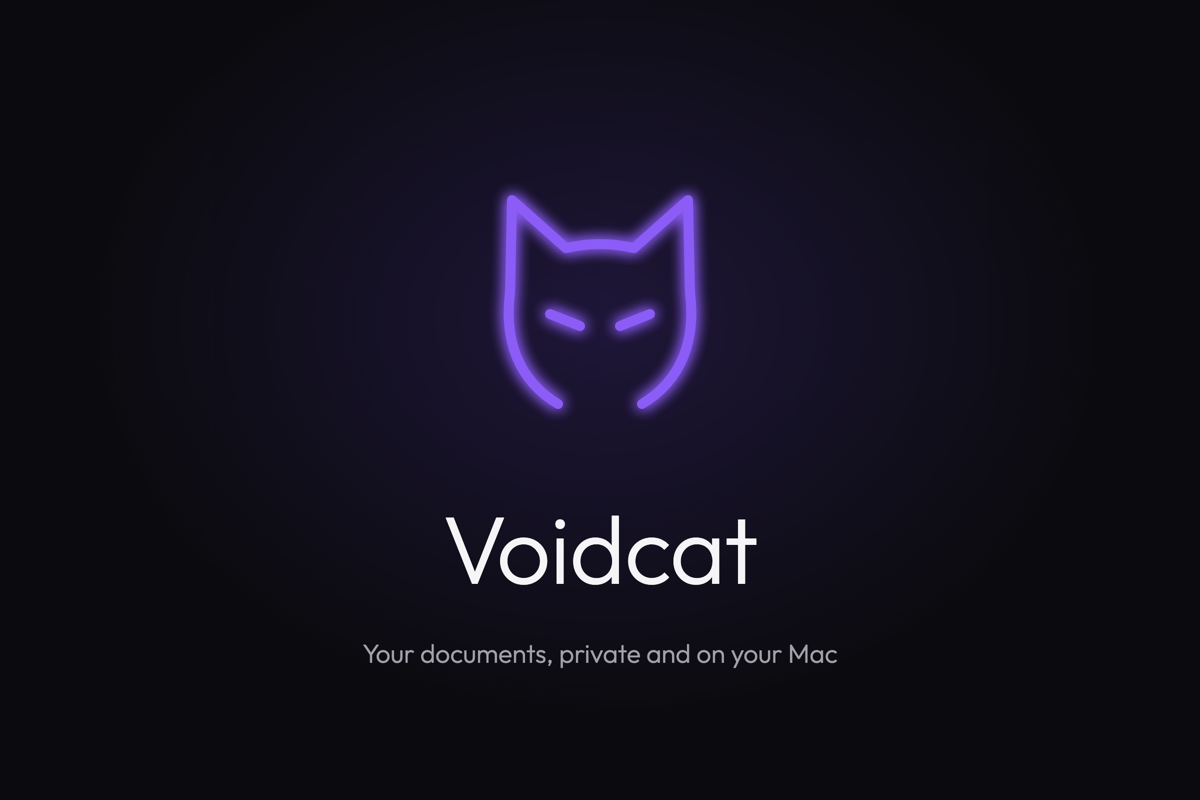
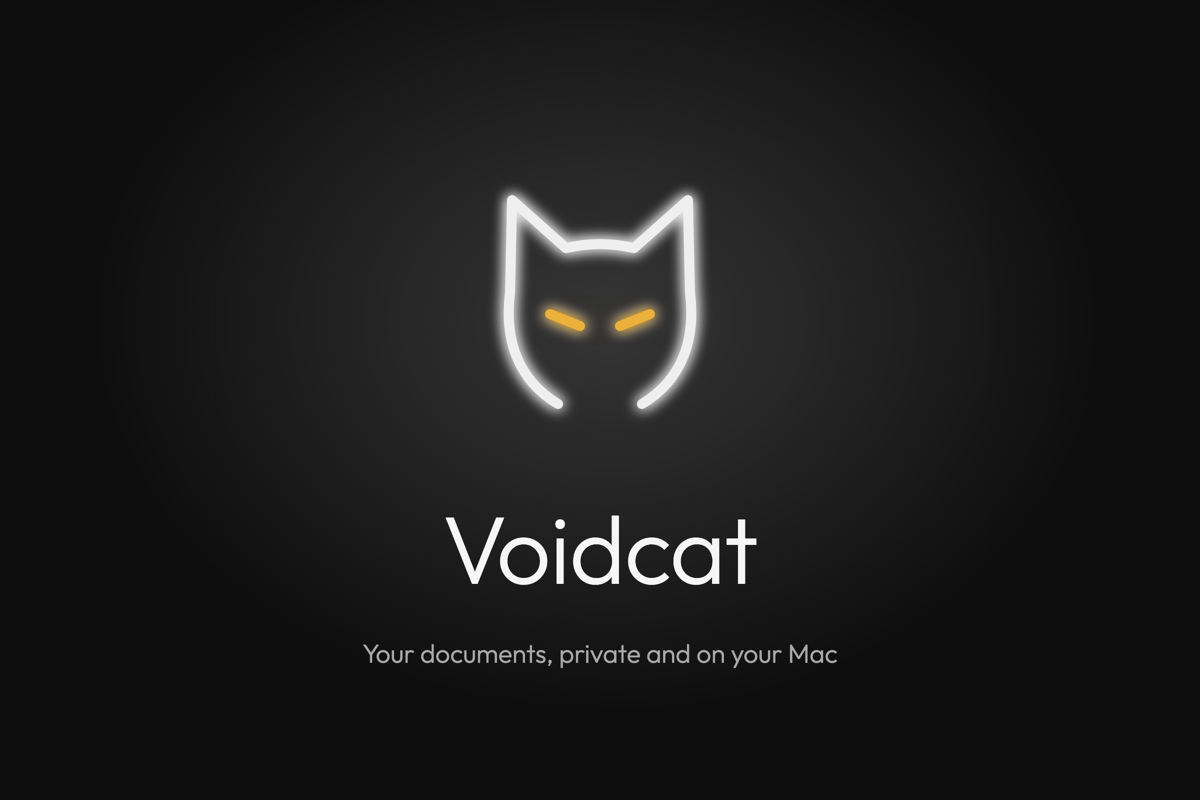
README: white cat cover, new features listed

Changed region(s): [[0.37, 0.2188, 0.6167, 0.5312]]

diff --git a/README.md b/README.md
@@ -1,7 +1,7 @@
 # Voidcat
 
 [![pipeline status](https://gitlab.com/gitlab-ai-hackathon/transcend-october-2026/8599176/showcase/badges/main/pipeline.svg)](https://gitlab.com/gitlab-ai-hackathon/transcend-october-2026/8599176/showcase/-/pipelines)
-[![License: MIT](https://img.shields.io/badge/license-MIT-8b5cf6.svg)](LICENSE)
+[![License: MIT](https://img.shields.io/badge/license-MIT-f5b83d.svg)](LICENSE)
 
 ![Voidcat](docs/cover.png)
 
@@ -11,11 +11,14 @@ Built for the GitLab Transcend Hackathon (October 2026).
 
 ## What it does
 
-- **Reads documents on your Mac.** PDFs, photos and scans are read locally (Apple Vision OCR and a local model through Ollama). Nothing is uploaded to do this.
+- **Reads documents on your Mac.** PDFs, photos, scans, spreadsheets and Word files are read locally (Apple Vision OCR and a local model through Ollama). Nothing is uploaded to do this.
 - **Files them.** Each document gets a title, an area and a folder; you confirm when it isn't sure.
 - **Pulls out facts for you to approve.** Dates, ID numbers, amounts and addresses go to an inbox with the source page highlighted.
 - **Calendar and reminders.** Expiry dates, appointments, renewals and monthly payments from the facts you approved, with Mac notifications and `.ics` export.
 - **Ask any AI, safely.** Questions go to a cloud model only after a privacy filter swaps names, IDs and addresses for placeholders like `[PERSON_1]`; the answer is put back together on your Mac. Zero data retention is required on every request.
+- **Everything in tabs.** Screens and documents open in tabs inside the app; facts are marked on the page, with approve and reject beside it.
+- **Local or cloud models.** Pick an Ollama model on your Mac (nothing leaves) or a cloud model (masked), keep a chat history, and type @ to ask about one document, folder or area. Ask for "my rental papers as a zip" and it gathers them.
+- **Labels.** Expired, ended, duplicate, unsigned, incomplete and not useful documents are flagged, and copies of the same document are grouped.
 - **MCP server.** Claude Desktop, Cursor or Claude Code can use your library through MCP, with per-app access levels and the same masking.
 - **Contacts and Me.** People and organisations found in your documents, and a profile of you built from approved facts, each value linked to its source.
 - **Opportunities.** Benefits, deadlines and savings that apply to you, found from your masked facts.
